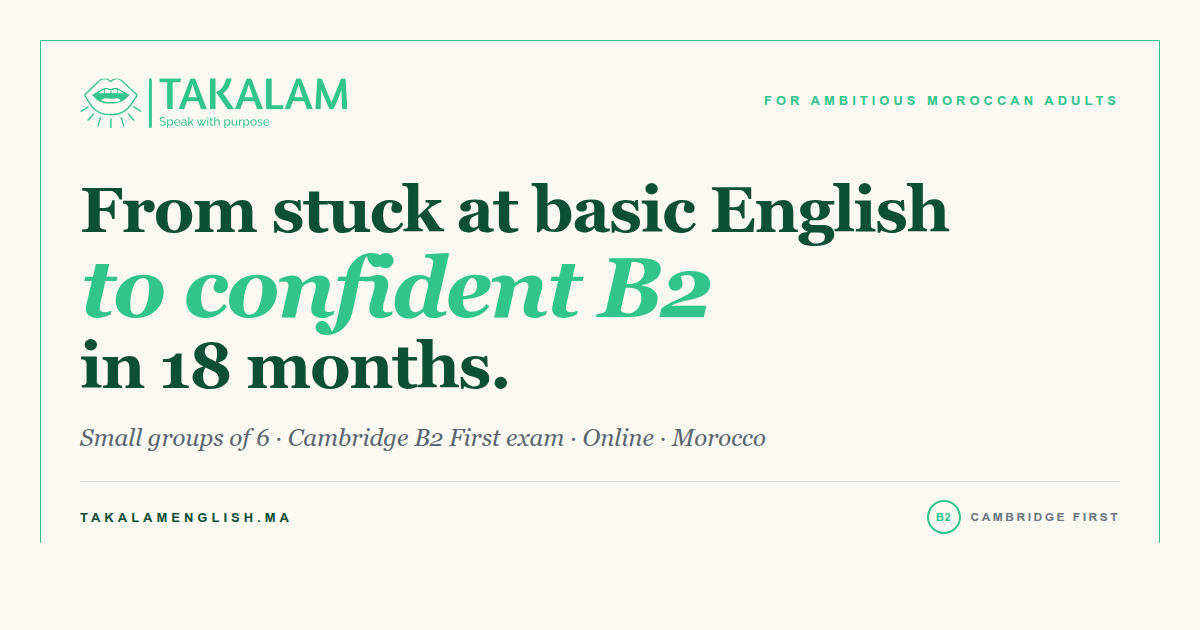
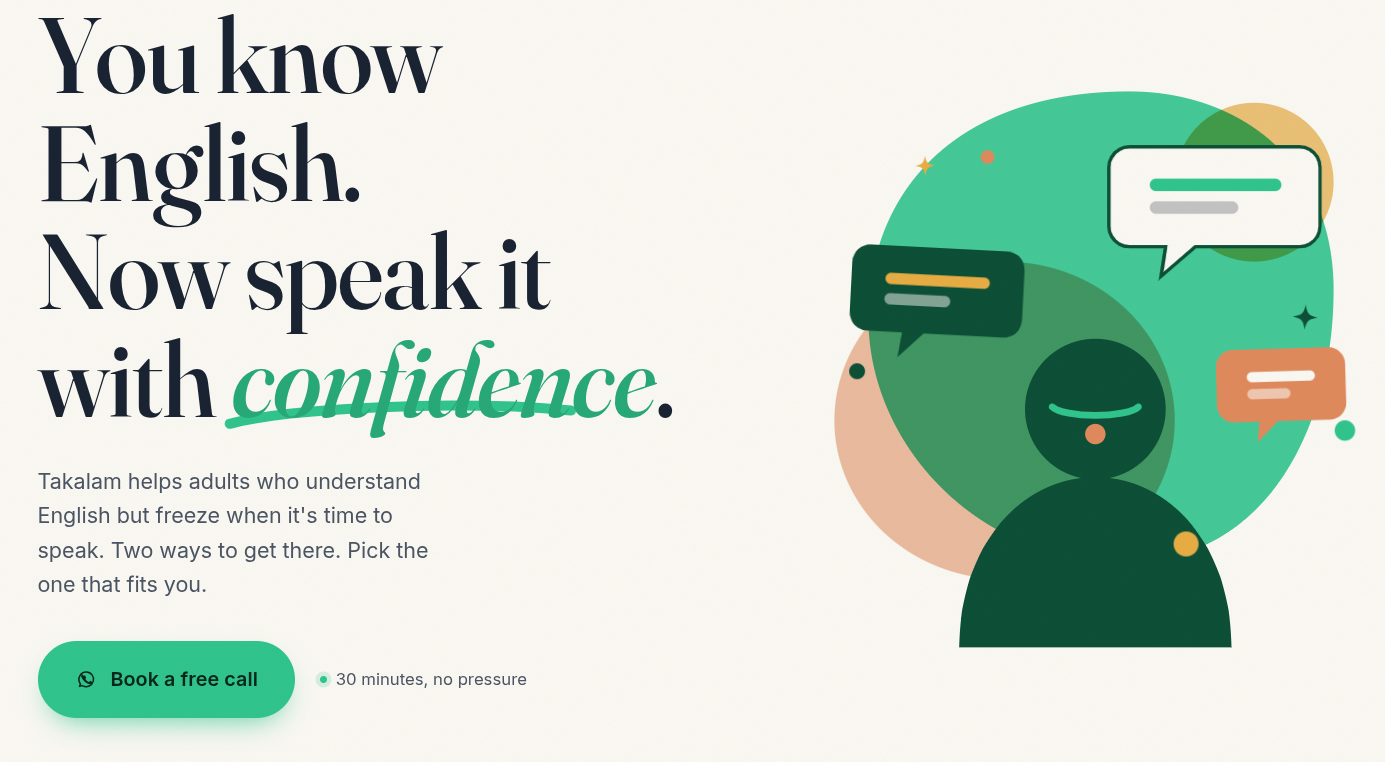
SEO meta tags, Open Graph, alt text, heading hierarchy, Vercel Analytics

diff --git a/index.html b/index.html
@@ -2,26 +2,27 @@
 <html lang="en"><head>
 <meta charset="UTF-8">
 <meta name="viewport" content="width=device-width, initial-scale=1.0">
-<title>Takalam English. Speak with confidence.</title>
-<meta name="description" content="Online English coaching. Group speaking practice or one to one private coaching for your specific goal.">
+<title>Takalam, Online English Speaking Coaching</title>
+<meta name="description" content="Online English coaching for adults who understand English but freeze when they speak. Small-group speaking practice and one to one private coaching. Fully online. Book a free call.">
 <meta name="keywords" content="english classes morocco, english program morocco, online english morocco, takalam english center, english speaking practice, learn english morocco">
 <meta name="author" content="Takalam English Center">
 <meta name="robots" content="index, follow">
+<link rel="canonical" href="https://takalamenglish.ma">
 <link rel="icon" type="image/svg+xml" href="/favicon.svg">
 <link rel="apple-touch-icon" href="/favicon.svg">
-<meta property="og:title" content="Takalam English. Speak with confidence.">
-<meta property="og:description" content="Online English coaching. Group speaking practice or one to one private coaching for your specific goal.">
+<meta property="og:title" content="Takalam, Online English Speaking Coaching">
+<meta property="og:description" content="Online English coaching for adults who understand English but freeze when they speak. Small-group speaking practice and one to one private coaching. Fully online. Book a free call.">
 <meta property="og:type" content="website">
-<meta property="og:url" content="https://takalam-landing.vercel.app">
-<meta property="og:image" content="/og-image.png">
+<meta property="og:url" content="https://takalamenglish.ma">
+<meta property="og:image" content="https://takalamenglish.ma/og-image.png">
 <meta property="og:image:width" content="1200">
 <meta property="og:image:height" content="630">
 <meta property="og:locale" content="en_US">
-<meta property="og:site_name" content="Takalam English Center">
+<meta property="og:site_name" content="Takalam">
 <meta name="twitter:card" content="summary_large_image">
-<meta name="twitter:title" content="Takalam English. Speak with confidence.">
-<meta name="twitter:description" content="Online English coaching. Group speaking practice or one to one private coaching for your specific goal.">
-<meta name="twitter:image" content="/og-image.png">
+<meta name="twitter:title" content="Takalam, Online English Speaking Coaching">
+<meta name="twitter:description" content="Online English coaching for adults who understand English but freeze when they speak. Small-group speaking practice and one to one private coaching. Fully online. Book a free call.">
+<meta name="twitter:image" content="https://takalamenglish.ma/og-image.png">
 <link rel="preconnect" href="https://fonts.googleapis.com">
 <link rel="preconnect" href="https://fonts.gstatic.com" crossorigin="">
 <link href="https://fonts.googleapis.com/css2?family=Fraunces:ital,opsz,wght@0,9..144,400..700;1,9..144,400..700&family=Inter:wght@400;500;600;700&display=swap" rel="stylesheet">
@@ -605,8 +606,8 @@ a { color: inherit; }
       </div>
     </div>
 
-    <div class="hero-art reveal d2" aria-hidden="true">
-      <svg viewBox="0 0 540 560" fill="none" xmlns="http://www.w3.org/2000/svg">
+    <div class="hero-art reveal d2">
+      <svg viewBox="0 0 540 560" fill="none" xmlns="http://www.w3.org/2000/svg" role="img" aria-label="Illustration of a person surrounded by speech bubbles, representing speaking English with confidence">
         <!-- backing blobs -->
         <path d="M300 70c95 0 180 60 180 175s-55 240-185 240S70 380 70 270 145 70 300 70Z" fill="#31c48d" opacity=".9"></path>
         <ellipse cx="190" cy="360" rx="150" ry="140" fill="#df8a5d" opacity=".55" style="mix-blend-mode:multiply"></ellipse>
@@ -663,7 +664,7 @@ a { color: inherit; }
         </div>
 
         <div class="door-art">
-          <svg viewBox="0 0 460 230" fill="none" xmlns="http://www.w3.org/2000/svg">
+          <svg viewBox="0 0 460 230" fill="none" xmlns="http://www.w3.org/2000/svg" role="img" aria-label="Six people arranged in a small group, each with a speech bubble, illustrating the Speak small-group format">
             <rect x="0" y="0" width="460" height="230" rx="18" fill="#f3ecdc"></rect>
             <!-- six figures in a conversation ring -->
             <g>
@@ -718,7 +719,7 @@ a { color: inherit; }
         </div>
 
         <div class="door-art">
-          <svg viewBox="0 0 460 230" fill="none" xmlns="http://www.w3.org/2000/svg">
+          <svg viewBox="0 0 460 230" fill="none" xmlns="http://www.w3.org/2000/svg" role="img" aria-label="A coach and a student with a speech bubble between them and a target in the background, illustrating one-to-one Private coaching">
             <rect x="0" y="0" width="460" height="230" rx="18" fill="#0a3d2b"></rect>
             <!-- single focused path from coach to goal -->
             <path d="M120 150c40-70 180-70 230-110" stroke="#e7ad44" stroke-width="3" stroke-dasharray="2 12" stroke-linecap="round"></path>
@@ -882,7 +883,7 @@ a { color: inherit; }
       </div>
 
       <div class="foot-col">
-        <h4>Talk to us</h4>
+        <h3>Talk to us</h3>
         <a href="https://wa.me/212722774753?text=Hi%20Takalam!%20I'd%20like%20to%20book%20a%20free%20call." target="_blank" rel="noopener">
           <svg viewBox="0 0 24 24" fill="none" aria-hidden="true"><path d="M12 4.2a7.8 7.8 0 0 0-6.6 12l.3.5-.7 2.6 2.7-.7.5.3A7.8 7.8 0 1 0 12 4.2Z" stroke="currentColor" stroke-width="1.6"></path><path d="M9.3 8.4c.2-.4.4-.4.6-.4h.5c.2 0 .4 0 .6.5l.7 1.7c.1.2 0 .4 0 .5l-.4.5c-.1.2-.3.3-.1.6.2.4.8 1.3 1.6 1.9 1 .8 1.6.9 1.9 1 .2 0 .4 0 .5-.2l.6-.7c.2-.2.4-.2.6-.1l1.6.8c.2.1.4.2.4.3 0 .3 0 .9-.3 1.3-.3.5-1.3 1-1.9 1-.5 0-1.1.1-3.6-1-2.9-1.3-4.7-4.4-4.9-4.6-.1-.2-1.1-1.5-1.1-2.8 0-1.4.7-2 1-2.3Z" fill="currentColor"></path></svg>
           +212 722 774 753
@@ -894,7 +895,7 @@ a { color: inherit; }
       </div>
 
       <div class="foot-col">
-        <h4>The two paths</h4>
+        <h3>The two paths</h3>
         <a href="#paths">Takalam Speak</a>
         <a href="#paths">Takalam Private</a>
         <a href="#how">How it works</a>
@@ -992,4 +993,5 @@ setTimeout(() => reveals.forEach(el => el.classList.add('in')), 2600);
 </script>
 
 
+<script defer src="/_vercel/insights/script.js"></script>
 </body></html>
